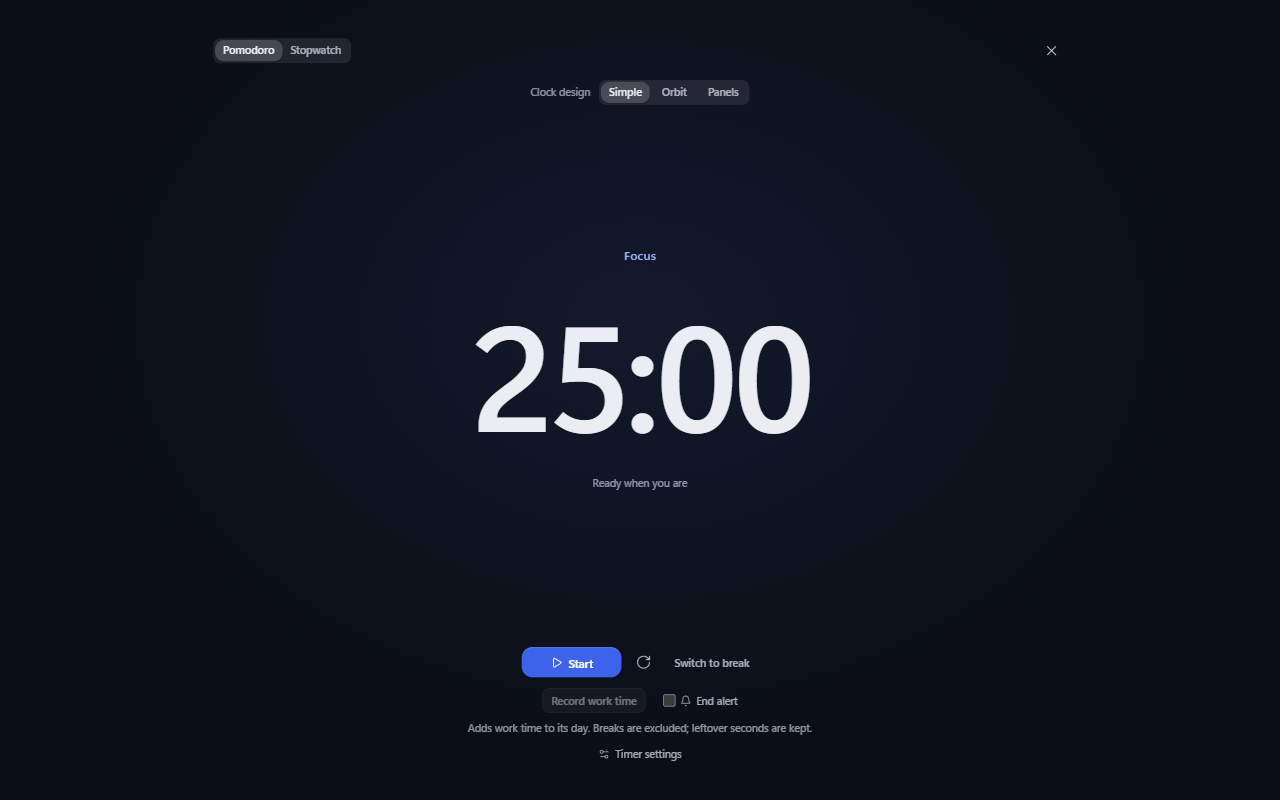
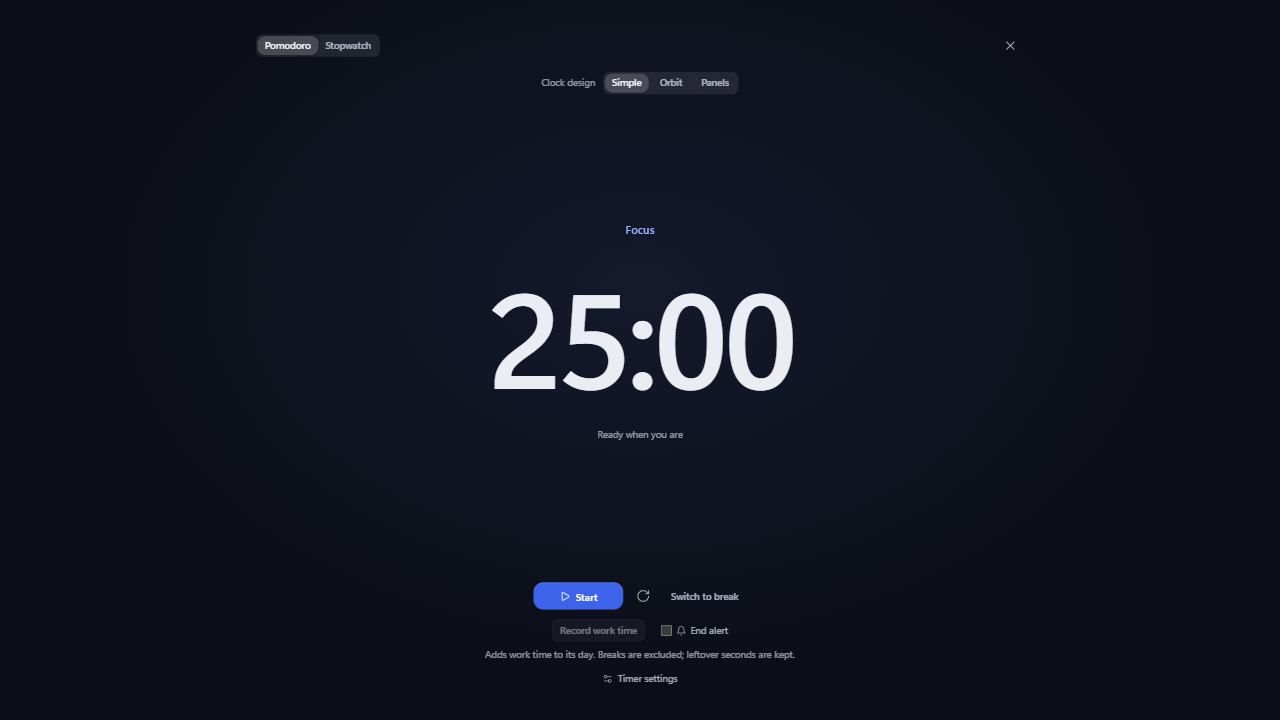
Add files via upload

diff --git a/index.html b/index.html
@@ -19,10 +19,10 @@
   <p><a class="cta" id="install" href="https://chromewebstore.google.com/">Add to Chrome — it’s free</a></p>
 </section>
 <div class="shots">
-  <img src="assets/en/01-dashboard.png" width="1280" height="800" alt="Dial's dashboard: speed dial, calendar, weather and a course tracker in one new tab">
-  <img src="assets/en/03-useful-time.png" width="1280" height="800" alt="Useful time: a Pomodoro timer and a chart of the time you worked">
-  <img src="assets/en/05-goals.png" width="1280" height="800" alt="Goals with a clear next step and visible progress">
-  <img src="assets/en/06-weight.png" width="1280" height="800" alt="The optional weight tracker on the dashboard: current weight, target, progress and a chart with an estimated arrival date">
+  <img src="assets/en/01-dashboard.png" width="1280" height="720" alt="Dial's dashboard: speed dial, calendar, weather and a course tracker in one new tab">
+  <img src="assets/en/03-useful-time.png" width="1280" height="720" alt="Useful time: a Pomodoro timer and a chart of the time you worked">
+  <img src="assets/en/05-goals.png" width="1280" height="720" alt="Goals with a clear next step and visible progress">
+  <img src="assets/en/06-weight.png" width="1280" height="720" alt="The optional weight tracker on the dashboard: current weight, target, progress and a chart with an estimated arrival date">
 </div>
 <p class="muted">Screenshots show example shortcuts as they appear in Dial. Site names and icons belong to their owners; Dial is not affiliated with or endorsed by any of them.</p>
 <h2>What you get</h2>
